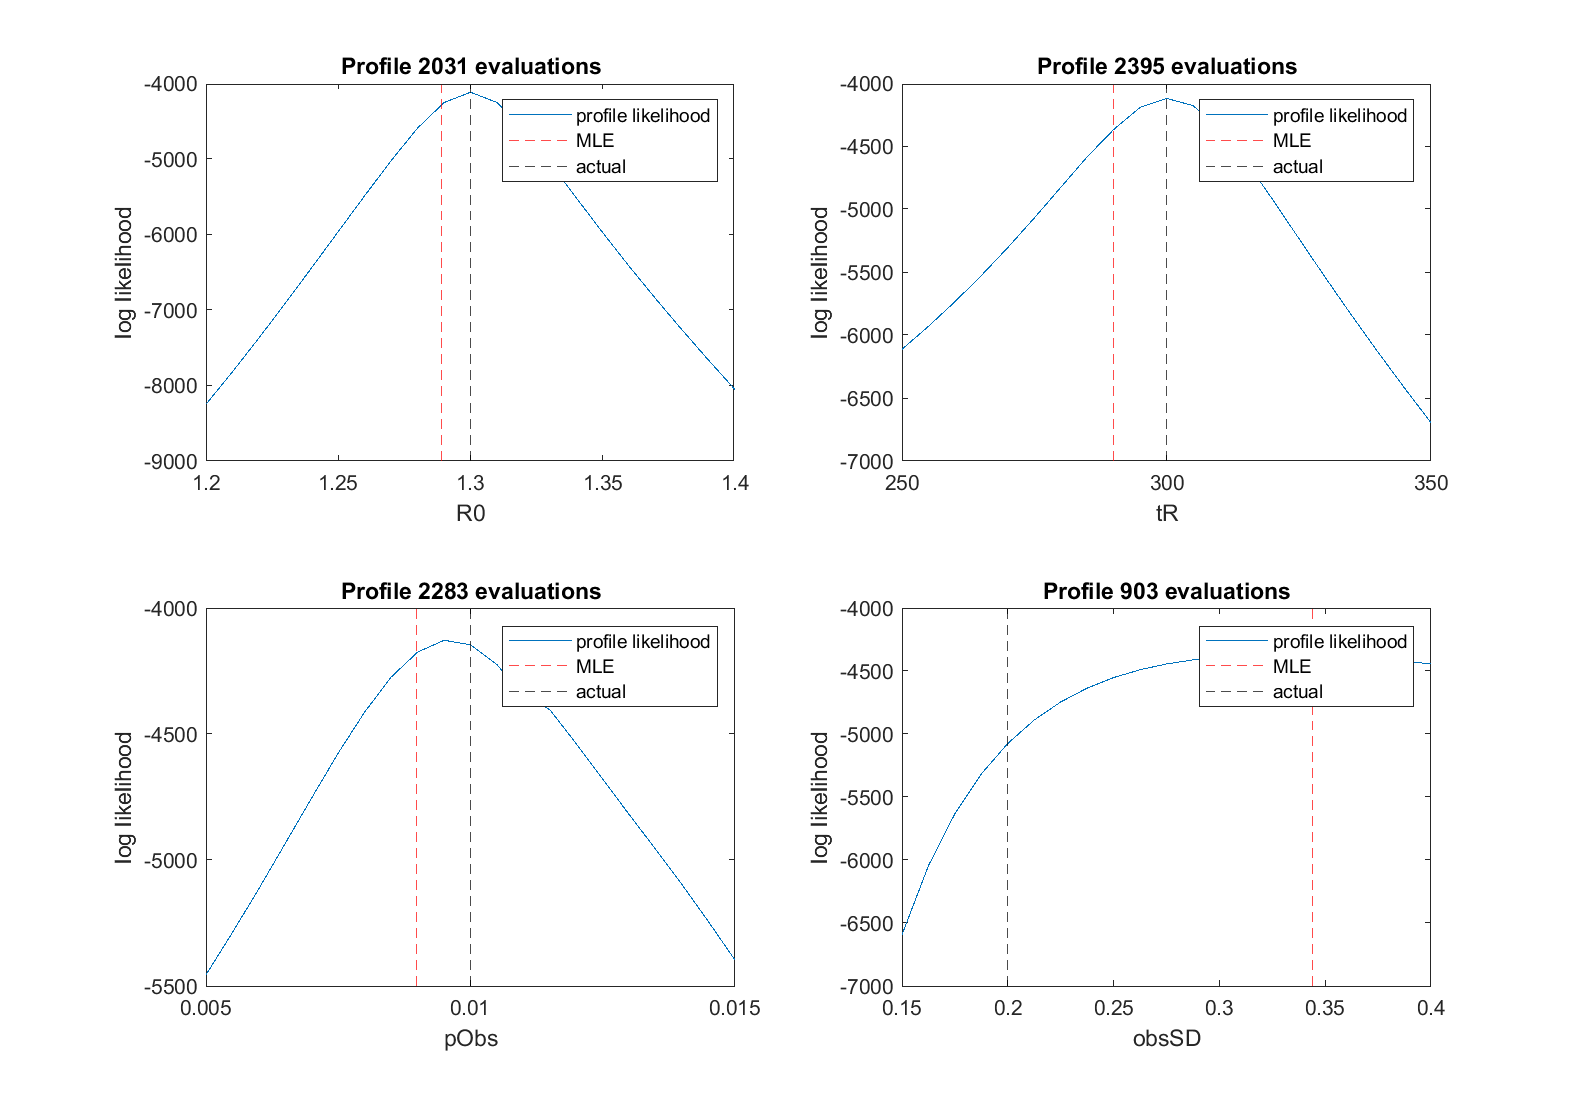
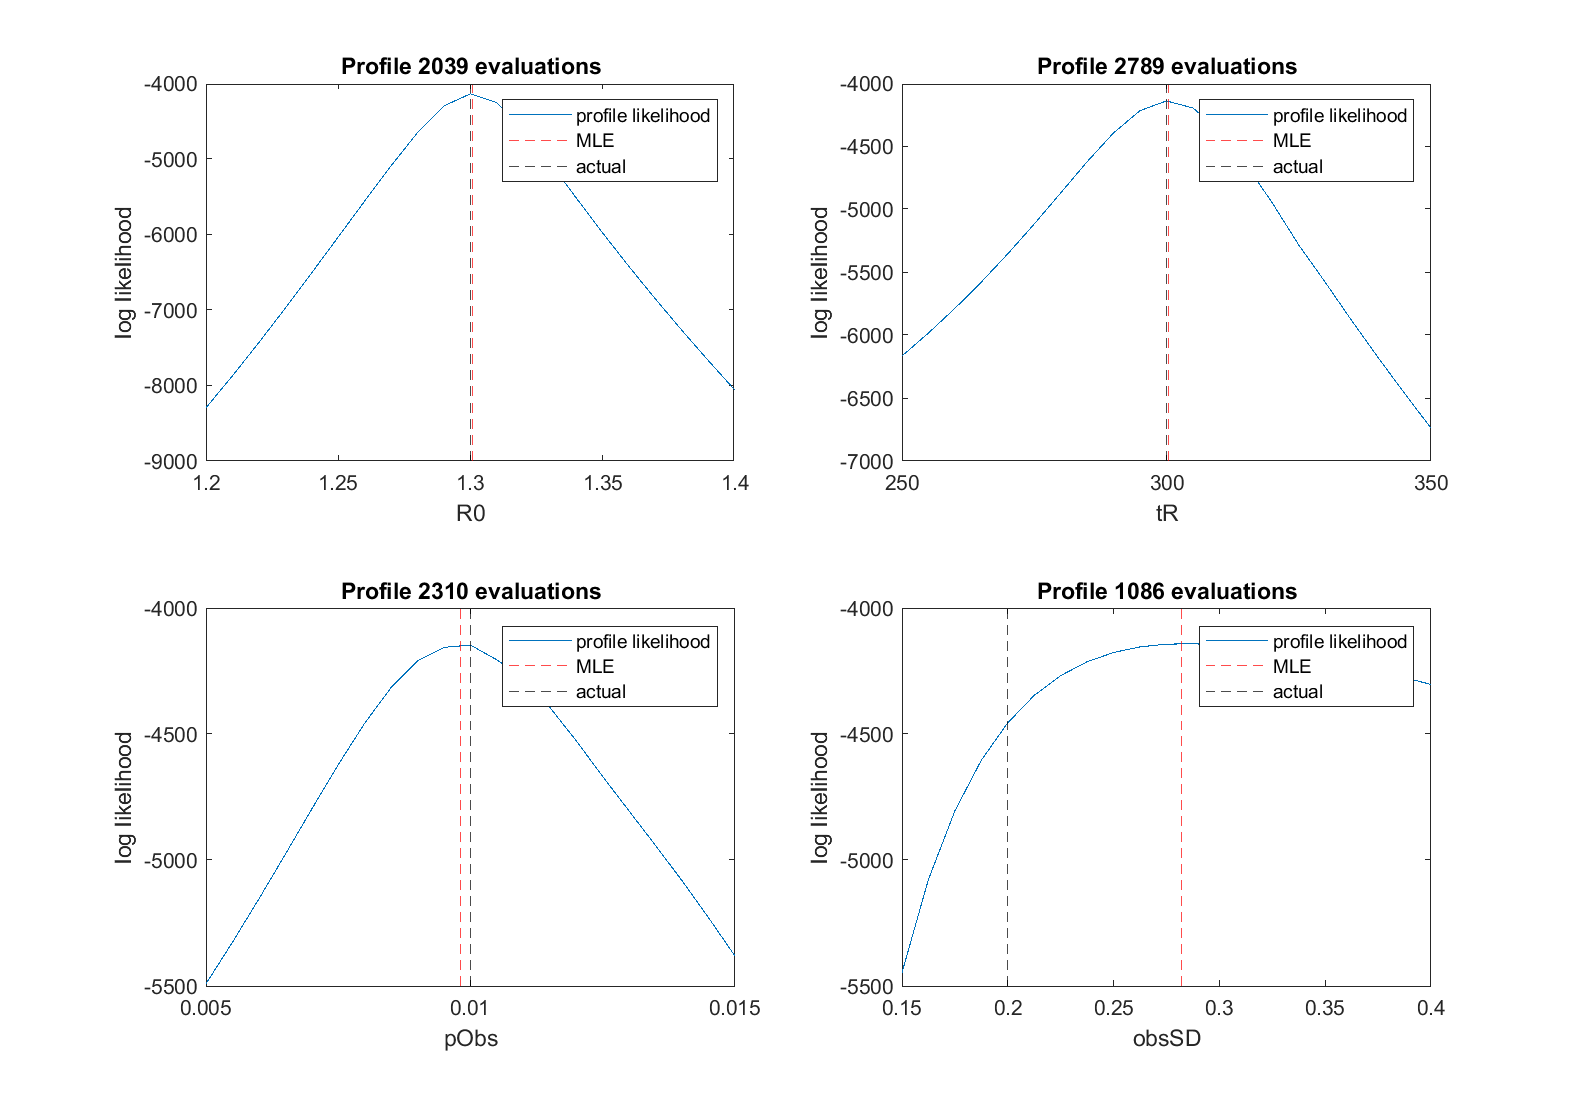
Adjusted solveModel output and calcLogLikImproved input
Adjusted so that the 'expected observation' is a field of the sol structure output by solvreModel, rather than a second output variable.
And calcLogLikImproved now that the initial condition and lower and upper bound for the parameter(s) to be optimised (e.g. pOObs) as inputs rather then being hard coded.
ThetaMLEImproved changed so that it inlcudes the value of the parameter(s) to be optimised (and so has consistent format with ThetaMLE)

diff --git a/main.m b/main.m
@@ -47,8 +47,8 @@ ThetaUpper = [1.4; 350; 0.015; 0.4];
 %%%%%%%%%%%%%%%%%%%%%%%%%%%%%%%%%%%%%%%%%%%%%%%%%%%%%%%%%%%%%%%%%%%%%%%
 
 par = getPar();
-[sol, Yt] = solveModel(par);
-obs = genObs(Yt, par);
+sol = solveModel(par);
+obs = genObs(sol.eObs, par);
 
 % Make a vector of target parameters for inference
 ThetaTrue = [par.R0; par.tR; par.pObs; par.obsSD];
@@ -84,7 +84,7 @@ ThetaTrue = [par.R0; par.tR; par.pObs; par.obsSD];
 %%%%%%%%%%%%%%%%%%%%%%%%%%%%%%%%%%%%%%%%%%%%%%%%%%%%%%%%%%%%%%%%%%%%%%%%%
 
 h = figure(1);
-plot(sol.t, (1/par.tObs)*sol.C1, solMLE.t, (1/parMLE.tObs)*solMLE.C1 , sol.t, obs, '.' )
+plot(sol.t, sol.eObs, solMLE.t, solMLE.eObs , sol.t, obs, '.' )
 legend('actual', 'MLE', 'data')
 xlabel('time (days)')
 ylabel('new daily observations')
@@ -116,27 +116,18 @@ saveas(gcf, savFolder+"profiles_"+savLbl, 'png');
 
 
 
-
+%%
 %%%%%%%%%%%%%%%%%%%%%%%%%%%%%%%%%%%%%%%%%%%%%%%%%%%%%%%%%%%%%%%%%%%%%%%
 % Find MLE with structured inference method
+% NB variables with 'Improved" suffix relate to output from the structured inference method as opposed to the basic method
 %%%%%%%%%%%%%%%%%%%%%%%%%%%%%%%%%%%%%%%%%%%%%%%%%%%%%%%%%%%%%%%%%%%%%%%
 
 % Indices  of parameters in parLbl to optimise without re-evaluating forward model
 parsToOptimise = 3;
-% Indices of remianing parameters in parLbl to profile
-parsToProfile = setdiff(1:length(parLbl), parsToOptimise);
-
-% Create contracted vectors containing only the information for the parameters to be profiled
-lb_contracted = lb(parsToProfile);
-ub_contracted = ub(parsToProfile);
-ThetaTrue_contracted = ThetaTrue(parsToProfile);
-parLbl_contracted = parLbl(parsToProfile);
-Theta0_contracted = Theta0(parsToProfile);
-ThetaLower_contracted = ThetaLower(parsToProfile);
-ThetaUpper_contracted = ThetaUpper(parsToProfile);
 
 
-[ThetaMLEImproved, parMLEImproved, solMLEImproved, countMLEImproved] = doMLEImproved(getTrialPar, getTrialParImproved, solveModel, obs, par, Theta0_contracted, lb_contracted, ub_contracted, parsToOptimise, options);
+% Call MLE function
+[ThetaMLEImproved, parMLEImproved, solMLEImproved, countMLEImproved] = doMLEImproved(getTrialPar, getTrialParImproved, solveModel, obs, par, Theta0, lb, ub, parsToOptimise, options);
 
 
 
@@ -145,7 +136,7 @@ ThetaUpper_contracted = ThetaUpper(parsToProfile);
 % Profiling with structured inference method
 %%%%%%%%%%%%%%%%%%%%%%%%%%%%%%%%%%%%%%%%%%%%%%%%%%%%%%%%%%%%%%%%%%%%%%%
 
-[logLikImproved, countProfileImproved] = doProfilingImproved(getTrialParImproved, solveModel, obs, par, ThetaMLEImproved, Theta0_contracted, lb_contracted, ub_contracted, ThetaLower_contracted, ThetaUpper_contracted, nMesh, options);
+[logLikImproved, countProfileImproved] = doProfilingImproved(getTrialParImproved, solveModel, obs, par, ThetaMLEImproved, Theta0, lb, ub, ThetaLower, ThetaUpper, parsToOptimise, nMesh, options);
 
 
 
@@ -155,7 +146,7 @@ ThetaUpper_contracted = ThetaUpper(parsToProfile);
 %%%%%%%%%%%%%%%%%%%%%%%%%%%%%%%%%%%%%%%%%%%%%%%%%%%%%%%%%%%%%%%%%%%%%%%%%
 
 h = figure(3);
-plot(sol.t, (1/par.tObs)*sol.C1, solMLEImproved.t, (1/parMLEImproved.tObs)*solMLEImproved.C1 , sol.t, obs, '.' )
+plot(sol.t, sol.eObs, solMLEImproved.t, solMLEImproved.eObs, sol.t, obs, '.' )
 legend('actual', 'MLE', 'data')
 xlabel('time (days)')
 ylabel('new daily observations')
@@ -167,15 +158,16 @@ saveas(gcf, savFolder+"mle_structured_"+savLbl, 'png');
 
 h = figure(4);
 h.Position = [   560         239        1012         709];
-nPars = length(Theta0_contracted);      % number of parameters to profile
+parsToProfile = setdiff(1:length(Theta0), parsToOptimise);
+nPars = length(parsToProfile);      % number of parameters to profile
 for iPar = 1:nPars
-    ThetaMesh = linspace(ThetaLower_contracted(iPar), ThetaUpper_contracted(iPar), nMesh);
+    ThetaMesh = linspace(ThetaLower(parsToProfile(iPar)), ThetaUpper(parsToProfile(iPar)), nMesh);
     subplot(2, 2, iPar)
     plot(ThetaMesh, logLikImproved(iPar, :))
-    xline(ThetaMLEImproved(iPar), 'r--');
-    xline(ThetaTrue_contracted(iPar), 'k--');
+    xline(ThetaMLEImproved(parsToProfile(iPar)), 'r--');
+    xline(ThetaTrue(parsToProfile(iPar)), 'k--');
     legend('profile likelihood', 'MLE', 'actual')
-    xlabel(parLbl_contracted(iPar))
+    xlabel(parLbl(parsToProfile(iPar)))
     ylabel('log likelihood')
     title(sprintf('Profile %i evaluations', countProfileImproved(iPar)))
     drawnow

diff --git a/functions/doProfilingImproved.m b/functions/doProfilingImproved.m
@@ -1,17 +1,33 @@
-function [logLik, countProfile] = doProfilingImproved(getTrialParImproved, solveModel, obs, par, ThetaMLEImproved, Theta0_contracted, lb_contracted, ub_contracted, ThetaLower_contracted, ThetaUpper_contracted, nMesh, options)
+function [logLik, countProfile] = doProfilingImproved(getTrialParImproved, solveModel, obs, par, ThetaMLEImproved, Theta0, lb, ub, ThetaLower, ThetaUpper, parsToOptimise, nMesh, options)
+
+
+% Indices of remianing parameters in parLbl to profile
+parsToProfile = setdiff(1:length(Theta0), parsToOptimise);
+
+% Create contracted vectors containing only the information for the parameters to be profiled
+lb_contracted = lb(parsToProfile);
+ub_contracted = ub(parsToProfile);
+Theta0_contracted = Theta0(parsToProfile);
+ThetaLower_contracted = ThetaLower(parsToProfile);
+ThetaUpper_contracted = ThetaUpper(parsToProfile);
+ThetaMLEImproved_contracted = ThetaMLEImproved(parsToProfile);
+
+
+
+
 
 nPars = length(Theta0_contracted);
 countProfile = zeros(nPars, 1);
 logLik = zeros(nPars, nMesh);
-parfor iPar = 1:nPars
+for iPar = 1:nPars
     ThetaMesh = linspace(ThetaLower_contracted(iPar), ThetaUpper_contracted(iPar), nMesh);
     jOther = setdiff(1:nPars, iPar);
 
     ll = zeros(1, nMesh);
-    iStart = find(ThetaMesh >= ThetaMLEImproved(iPar), 1, 'first');        % start profiling from the MLE rightwards
-    ThetaOther0 = ThetaMLEImproved(jOther);                                % use MLE as initial guess for first run
+    iStart = find(ThetaMesh >= ThetaMLEImproved_contracted(iPar), 1, 'first');        % start profiling from the MLE rightwards
+    ThetaOther0 = ThetaMLEImproved_contracted(jOther);                                % use MLE as initial guess for first run
     for iMesh = iStart:nMesh
-        objFn = @(ThetaOther)(-calcLogLikImproved(getTrialParImproved, solveModel, obs, makeTheta(ThetaMesh(iMesh), ThetaOther, iPar), par, options));
+        objFn = @(ThetaOther)(-calcLogLikImproved(getTrialParImproved, solveModel, obs, makeTheta(ThetaMesh(iMesh), ThetaOther, iPar), par, Theta0(parsToOptimise), lb(parsToOptimise), ub(parsToOptimise), options));
         [x, f, ~, output] = fmincon(objFn, ThetaOther0, [], [], [], [], lb_contracted(jOther), ub_contracted(jOther), [], options);
         ll(iMesh) = -f;
         ThetaOther0 = x;                                          % use profile solution as the initial guess for the next run
@@ -19,9 +35,9 @@ parfor iPar = 1:nPars
     end
 
     % now profile from the MLE leftwards
-    ThetaOther0 = ThetaMLEImproved(jOther);                                % use MLE as initial guess for first run
+    ThetaOther0 = ThetaMLEImproved_contracted(jOther);                                % use MLE as initial guess for first run
     for iMesh = iStart-1:-1:1
-        objFn = @(ThetaOther)(-calcLogLikImproved(getTrialParImproved, solveModel, obs, makeTheta(ThetaMesh(iMesh), ThetaOther, iPar), par, options));
+        objFn = @(ThetaOther)(-calcLogLikImproved(getTrialParImproved, solveModel, obs, makeTheta(ThetaMesh(iMesh), ThetaOther, iPar), par, Theta0(parsToOptimise), lb(parsToOptimise), ub(parsToOptimise), options));
         [x, f, ~, output] = fmincon(objFn, ThetaOther0, [], [], [], [], lb_contracted(jOther), ub_contracted(jOther), [], options);
         ll(iMesh) = -f;
         ThetaOther0 = x;                                          % use profile solution as the initial guess for the next run

diff --git a/functions/doMLEImproved.m b/functions/doMLEImproved.m
@@ -1,18 +1,24 @@
-function [ThetaMLEImproved, parMLEImproved, solMLEImproved, countMLEImproved] = doMLEImproved(getTrialPar, getTrialParImproved, solveModel, obs, par, Theta0_contracted, lb_contracted, ub_contracted, parsToOptimise, options)
+function [ThetaMLEImproved, parMLEImproved, solMLEImproved, countMLEImproved] = doMLEImproved(getTrialPar, getTrialParImproved, solveModel, obs, par, Theta0, lb, ub, parsToOptimise, options)
 
 
-%options = optimoptions('fmincon', 'Display', 'iter');
+% Indices of remianing parameters in parLbl to profile
+parsToProfile = setdiff(1:length(Theta0), parsToOptimise);
+
+
 
 % Deine objective function for optimisation
-objFn = @(Theta)(-calcLogLikImproved(getTrialParImproved, solveModel, obs, Theta, par, options));
+objFn = @(Theta)(-calcLogLikImproved(getTrialParImproved, solveModel, obs, Theta, par, Theta0(parsToOptimise), lb(parsToOptimise), ub(parsToOptimise), options));
 
 % Local search starting from Theta0...
-[ThetaMLEImproved, ~, ~, output] = fmincon( objFn, Theta0_contracted, [], [], [], [], lb_contracted, ub_contracted, [], options );
+[ThetaMLE_contracted, ~, ~, output] = fmincon( objFn, Theta0(parsToProfile), [], [], [], [], lb(parsToProfile), ub(parsToProfile), [], options );
 countMLEImproved = output.funcCount;
 
-% Post-calculate optimal pObs
-[~, pObsMLEImproved] = calcLogLikImproved(getTrialParImproved, solveModel, obs, ThetaMLEImproved, par, options);
+% Post-calculate optimal value of parameter(s) to be optimised
+[~, PhiMLE] = calcLogLikImproved(getTrialParImproved, solveModel, obs, ThetaMLE_contracted, par, Theta0(parsToOptimise), lb(parsToOptimise), ub(parsToOptimise), options);
+
+% Combine the output from fmincon with the value of the parameter(s) optimised "within the loop" into a single vector of consistent format with ThetaMLE
+ThetaMLEImproved = makeTheta(PhiMLE, ThetaMLE_contracted, parsToOptimise )
 
 % Solve model at MLE estimate and plot results
-parMLEImproved = getTrialPar( makeTheta(pObsMLEImproved, ThetaMLEImproved, parsToOptimise ), par);
+parMLEImproved = getTrialPar(ThetaMLEImproved, par);
 solMLEImproved = solveModel(parMLEImproved);

diff --git a/functions/calcLogLikImproved.m b/functions/calcLogLikImproved.m
@@ -1,8 +1,9 @@
-function [LL, pObsOpt] = calcLogLikImproved(getTrialParImproved, solveModel, obs, Theta, par, options)
+function [LL, PhiOpt] = calcLogLikImproved(getTrialParImproved, solveModel, obs, Theta, par, Phi0, lb, ub, options)
 
 % Calculate log likelihood of observed data obs under parameters Theta
 % par is the structrue containing all model parameters
 % Theta is the vector of selected parameters to be fitted 
+% Phi0, lb, and ub are the initial condition and lower and upper bound for the parameter(s) to be optimised (e.g. pOObs)
 
 
 nPoints = length(obs);
@@ -11,14 +12,13 @@ nPoints = length(obs);
 par = getTrialParImproved(Theta, par);
 
 % Solve forward model (with pObs = 1 or equivalent modification made by getTrialParImproved)
-[~, Yt] = solveModel(par); 
+sol = solveModel(par); 
 
-% Find optimal pObs and associated log likelihood, starting from initial guess pObs = 0.5
+% Find optimal Phi (representing e.g. pObs) and associated log likelihood, starting from initial guess pObs = 0.5
 % Note this optimisation stop does not require the forward model to be re-run, it just evaluates the likelihood at scaled_yMean = pObs*yMean
-objFn = @(pObs)(-LLfunc(pObs*Yt, obs, par.obsSD, par.noiseModel));
-[pObsOpt, f, exitFlag] = fmincon(objFn, 0.05, [], [], [], [], 0, 1, [], options);            % 0.5 is the initial condition for the optimisd parameter; [0, 1] arguments require the optimised parameter to be bounded by [0, 1] 
+objFn = @(Phi)(-LLfunc(Phi*sol.eObs, obs, par.obsSD, par.noiseModel));
+[PhiOpt, f, exitFlag] = fmincon(objFn, Phi0, [], [], [], [], lb, ub, [], options);           
 assert(exitFlag > 0)
-%pObsOpt
 
 
 LL = -f;

diff --git a/functions/LLfunc.m b/functions/LLfunc.m
@@ -2,8 +2,6 @@ function LL = LLfunc(yMean, yData, SD, noiseModel)
 
 small = 1e-10;
 
-% DP = [mean(yMean), mean(yData)]
-% pause
 
 nPoints = length(yData);
 
@@ -15,15 +13,8 @@ elseif noiseModel == "norm_SD_propMean"
     yMean_pos = max(small, yMean);   % To avoid numerical problems, replace non-positive values with a small positive number
     
     % Log likelihood (PDF of a normal with mean yMean_pos and variance SD^2*yMean_pos^2)
-% figure; 
-% plot(1:nPoints, yMean_pos, 1:nPoints, yData)
-% figure;
-% plot(1:nPoints, (yData-yMean_pos).^2./(SD^2*yMean_pos.^2))
-
     LL = -nPoints*log(SD) - sum( log(yMean_pos) + 0.5 * (yData-yMean_pos).^2./(SD^2*yMean_pos.^2)  );
-
 else
-
     error("LLfunc: noiseModel type needs to be one of: 'const', 'propMean'");
 end
 

diff --git a/functions/solveModelSEIR.m b/functions/solveModelSEIR.m
@@ -1,4 +1,4 @@
-function [sol, Yt] = solveModelSEIR(par)
+function sol = solveModelSEIR(par)
 
 
 tSpan = 0:1:par.tMax;
@@ -26,5 +26,5 @@ sol.C1 = Y(:, 5);                             % cases (latent)
 sol.C2 = Y(:, 6);                             % cases (cumulative)
 
 % Calculate mean (expected) observations
-Yt = 1/par.tObs * sol.C1;
+sol.eObs = 1/par.tObs * sol.C1;
 

diff --git a/functions/calcLogLik.m b/functions/calcLogLik.m
@@ -9,7 +9,7 @@ function LL = calcLogLik(getTrialPar, solveModel, obs, Theta, par)
 par = getTrialPar(Theta, par);
 
 % Solve forward model
-[~, Yt] = solveModel(par); 
+sol = solveModel(par); 
 
-LL = LLfunc(Yt, obs, par.obsSD, par.noiseModel);
+LL = LLfunc(sol.eObs, obs, par.obsSD, par.noiseModel);
 
